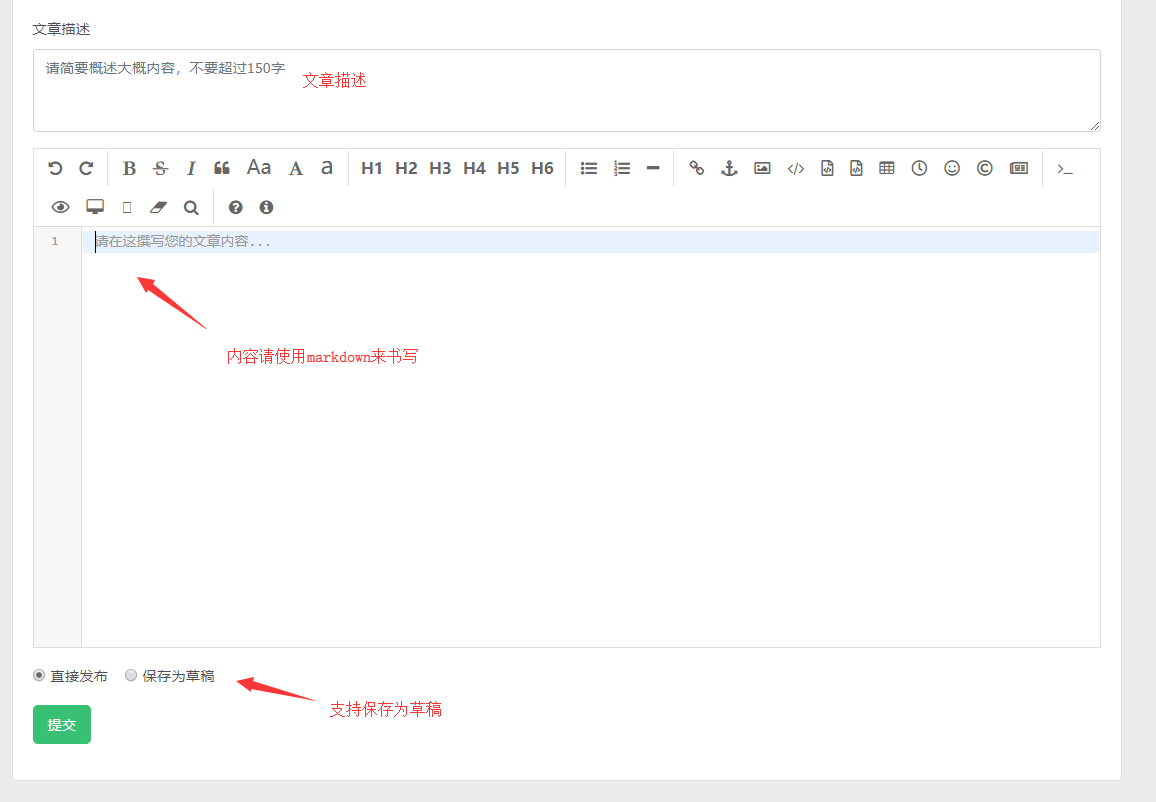
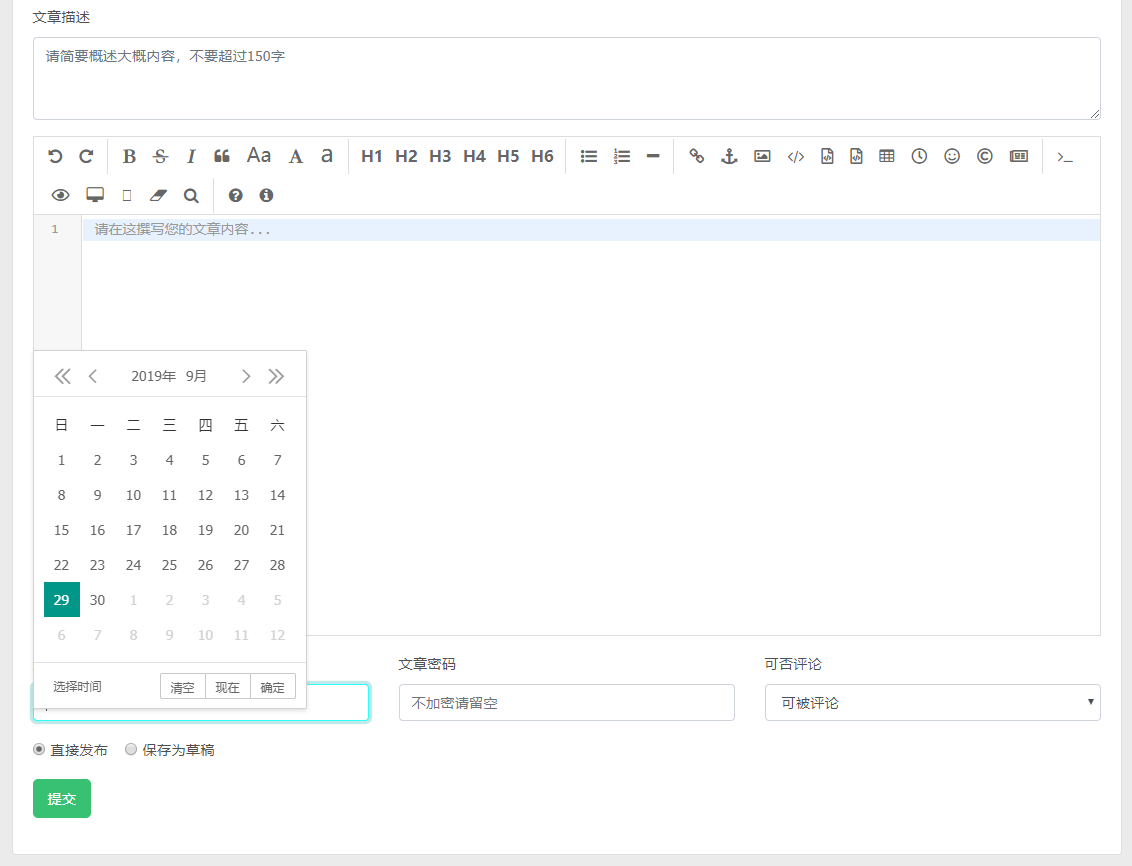
update docs

diff --git a/resources/docs/1.6/post.md b/resources/docs/1.6/post.md
@@ -15,7 +15,12 @@
 点击【+】图标进入发表文章页面  
 ![发表文章1](/images/docs/add-post1.png)  
 ![发表文章2](/images/docs/add-post2.png)  
-如果你对markdown语法不熟悉，请参考[markdown教程](http://www.markdown.cn)
+【文章描述】对应`description`标签，简要介绍文章内容方便搜索引擎进行索引。  
+内容请使用Markdown格式来编写，如果你对markdown语法不熟悉，请参考[markdown教程](http://www.markdown.cn)  
+支持【定时发布】，点击输入框然后在弹框中选择对应时间即可。  
+支持【文章加密】访客许正确输入密码才可看到内容。  
+评论支持开关，不想文章被评论可关闭评论功能(只针对该文章生效)。  
+文章可以保存为草稿方便下次再接着拽写。
 
 <a name="edit-post"></a>
 ## 编辑文章

diff --git a/readme.md b/readme.md
@@ -24,7 +24,8 @@
 * 文章编辑使用markdown格式；
 * 新增文章时自动调用谷歌翻译生成友好的slug；
 * 文章访问统计；
-* 文章支持点赞、评论、打赏；
+* 文章支持定时发布、加密访问、评论开关、点赞、评论、打赏等；
+* 支持上传图片水印；
 * 文章使用tntsearch做全文索引、jieba做中文分词；
 * 登录用户支持评论文章、点赞文章、点赞评论；
 * 评论支持@功能、xss过滤；
@@ -34,7 +35,7 @@
 * 支持网站地图、RSS订阅；
 * 友情链接增删改；
 * 分类目录增删改；
-* 支持后台ICP备案号修改、公安备案号修改；
+* 后台支持站点信息、邮件配置、redis配置、ICP备案号、公安备案号等修改；
 
 ## 服务器要求
 * Nginx >= 1.8
